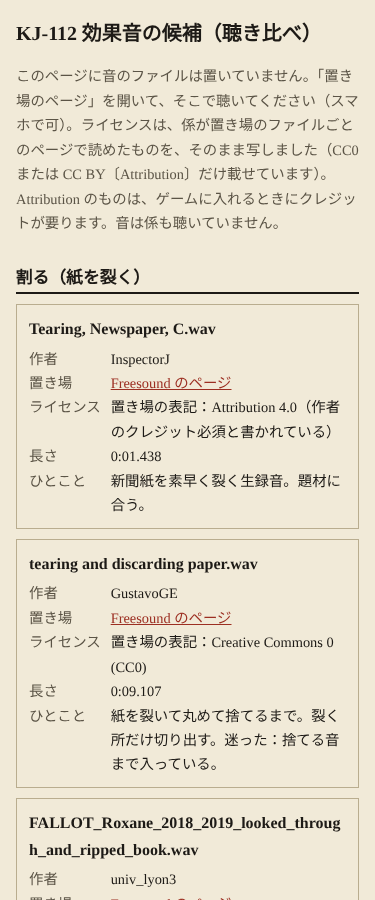
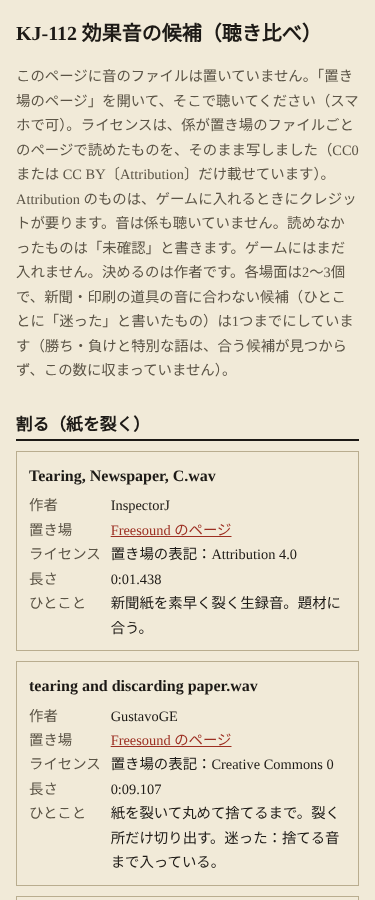
KJ-112 レビュー対応：候補を各場面3つまでに・表記を置き場のまま・前書きを補う
Claude-Session: https://claude.ai/code/session_01CHAiRUP5ebp8C5G6w2LNFK

diff --git a/docs/reports/audio/kj-112/index.html b/docs/reports/audio/kj-112/index.html
@@ -19,24 +19,24 @@ a{color:var(--red)}
 </head>
 <body>
 <h1>KJ-112 効果音の候補（聴き比べ）</h1>
-<p class="note">このページに音のファイルは置いていません。「置き場のページ」を開いて、そこで聴いてください（スマホで可）。ライセンスは、係が置き場のファイルごとのページで読めたものを、そのまま写しました（CC0 または CC BY〔Attribution〕だけ載せています）。Attribution のものは、ゲームに入れるときにクレジットが要ります。音は係も聴いていません。</p>
+<p class="note">このページに音のファイルは置いていません。「置き場のページ」を開いて、そこで聴いてください（スマホで可）。ライセンスは、係が置き場のファイルごとのページで読めたものを、そのまま写しました（CC0 または CC BY〔Attribution〕だけ載せています）。Attribution のものは、ゲームに入れるときにクレジットが要ります。音は係も聴いていません。読めなかったものは「未確認」と書きます。ゲームにはまだ入れません。決めるのは作者です。各場面は2〜3個で、新聞・印刷の道具の音に合わない候補（ひとことに「迷った」と書いたもの）は1つまでにしています（勝ち・負けと特別な語は、合う候補が見つからず、この数に収まっていません）。</p>
 <h2>割る（紙を裂く）</h2>
 <div class="card"><h3>Tearing, Newspaper, C.wav</h3><dl>
 <dt>作者</dt><dd>InspectorJ</dd>
 <dt>置き場</dt><dd><a href="https://freesound.org/s/415765">Freesound のページ</a></dd>
-<dt>ライセンス</dt><dd>置き場の表記：Attribution 4.0（作者のクレジット必須と書かれている）</dd>
+<dt>ライセンス</dt><dd>置き場の表記：Attribution 4.0</dd>
 <dt>長さ</dt><dd>0:01.438</dd>
 <dt>ひとこと</dt><dd>新聞紙を素早く裂く生録音。題材に合う。</dd></dl></div>
 <div class="card"><h3>tearing and discarding paper.wav</h3><dl>
 <dt>作者</dt><dd>GustavoGE</dd>
 <dt>置き場</dt><dd><a href="https://freesound.org/people/GustavoGE/sounds/560081/">Freesound のページ</a></dd>
-<dt>ライセンス</dt><dd>置き場の表記：Creative Commons 0 (CC0)</dd>
+<dt>ライセンス</dt><dd>置き場の表記：Creative Commons 0</dd>
 <dt>長さ</dt><dd>0:09.107</dd>
 <dt>ひとこと</dt><dd>紙を裂いて丸めて捨てるまで。裂く所だけ切り出す。迷った：捨てる音まで入っている。</dd></dl></div>
 <div class="card"><h3>FALLOT_Roxane_2018_2019_looked_through_and_ripped_book.wav</h3><dl>
 <dt>作者</dt><dd>univ_lyon3</dd>
 <dt>置き場</dt><dd><a href="https://freesound.org/s/442959">Freesound のページ</a></dd>
-<dt>ライセンス</dt><dd>置き場の表記：Attribution 4.0 (CC BY 4.0)</dd>
+<dt>ライセンス</dt><dd>置き場の表記：Attribution 4.0</dd>
 <dt>長さ</dt><dd>0:09.834</dd>
 <dt>ひとこと</dt><dd>古い厚手の本をめくり、ページを裂く音。裂く所だけ使う前提。</dd></dl></div>
 <h2>くっつける（Join の放射が弾む瞬間）</h2>
@@ -45,7 +45,7 @@ a{color:var(--red)}
 <dt>置き場</dt><dd><a href="https://freesound.org/people/I.fekry/sounds/470710/">Freesound のページ</a></dd>
 <dt>ライセンス</dt><dd>置き場の表記：Creative Commons 0</dd>
 <dt>長さ</dt><dd>0:01.590</dd>
-<dt>ひとこと</dt><dd>昔ながらのゴム判子（作者の説明）。判子では一番短い。（別の係が開けなかった回もあり、表記は1回読めたもの）</dd></dl></div>
+<dt>ひとこと</dt><dd>昔ながらのゴム判子（作者の説明）。判子では一番短い。</dd></dl></div>
 <div class="card"><h3>es-stamp.wav</h3><dl>
 <dt>作者</dt><dd>eddies2000</dd>
 <dt>置き場</dt><dd><a href="https://freesound.org/people/eddies2000/sounds/448474/">Freesound のページ</a></dd>
@@ -58,29 +58,17 @@ a{color:var(--red)}
 <dt>ライセンス</dt><dd>置き場の表記：CC0 (public domain): Free and royalty-free</dd>
 <dt>長さ</dt><dd>00:02</dd>
 <dt>ひとこと</dt><dd>タイプライターのキー1打。活字をはめる感じに寄せる候補。迷った：判子ではなくキーの音。</dd></dl></div>
-<div class="card"><h3>OFFICE SELF INKING STAMP ON PAPER 01.wav</h3><dl>
-<dt>作者</dt><dd>sengjinn</dd>
-<dt>置き場</dt><dd><a href="https://freesound.org/people/sengjinn/sounds/178650/">Freesound のページ</a></dd>
-<dt>ライセンス</dt><dd>置き場の表記：Attribution 4.0</dd>
-<dt>長さ</dt><dd>0:07.240</dd>
-<dt>ひとこと</dt><dd>自動インク判子を紙に押す録音。複数回入っているので1回分を切り出す。</dd></dl></div>
 <h2>放つ（刷り機・紙を投げる）</h2>
 <div class="card"><h3>Heidelberg printing press #1</h3><dl>
-<dt>作者</dt><dd>Mireille B.（録音）／ Joseph SARDIN（ページの作者表示）</dd>
+<dt>作者</dt><dd>Mireille B.</dd>
 <dt>置き場</dt><dd><a href="https://bigsoundbank.com/heidelberg-printing-press-1-s3404.html">BigSoundBank のページ</a></dd>
 <dt>ライセンス</dt><dd>置き場の表記：CC0 (public domain): Free and royalty-free</dd>
 <dt>長さ</dt><dd>00:25</dd>
 <dt>ひとこと</dt><dd>マルセイユの印刷所で録った印刷機。刷り機の音として最有力。1打を切り出す。</dd></dl></div>
-<div class="card"><h3>Heidelberg printing press #5</h3><dl>
-<dt>作者</dt><dd>Mireille B.</dd>
-<dt>置き場</dt><dd><a href="https://bigsoundbank.com/heidelberg-printing-press-5-s3408.html">BigSoundBank のページ</a></dd>
-<dt>ライセンス</dt><dd>置き場の表記：CC0 (public domain): Free and royalty-free</dd>
-<dt>長さ</dt><dd>00:31</dd>
-<dt>ひとこと</dt><dd>紙なしで回る印刷機。</dd></dl></div>
 <div class="card"><h3>Printing Press Mechanics</h3><dl>
 <dt>作者</dt><dd>exuberate</dd>
 <dt>置き場</dt><dd><a href="https://freesound.org/people/exuberate/sounds/174822/">Freesound のページ</a></dd>
-<dt>ライセンス</dt><dd>置き場の表記：Attribution 3.0（クレジット必須と書かれている）</dd>
+<dt>ライセンス</dt><dd>置き場の表記：Attribution 3.0</dd>
 <dt>長さ</dt><dd>0:25.859</dd>
 <dt>ひとこと</dt><dd>123年前の活版印刷機の機械音。</dd></dl></div>
 <div class="card"><h3>Rolled paper,slapping 2.wav</h3><dl>
@@ -89,12 +77,6 @@ a{color:var(--red)}
 <dt>ライセンス</dt><dd>置き場の表記：Creative Commons 0</dd>
 <dt>長さ</dt><dd>0:00.577</dd>
 <dt>ひとこと</dt><dd>丸めた紙を叩く音。迷った：刷り機ではなく紙を叩きつける用途。</dd></dl></div>
-<div class="card"><h3>Paper Throw Into Air; 3.wav</h3><dl>
-<dt>作者</dt><dd>RossBell</dd>
-<dt>置き場</dt><dd><a href="https://freesound.org/people/RossBell/sounds/389441/">Freesound のページ</a></dd>
-<dt>ライセンス</dt><dd>置き場の表記：Creative Commons 0</dd>
-<dt>長さ</dt><dd>0:02.366</dd>
-<dt>ひとこと</dt><dd>紙を空中に投げる音。迷った：叩きつけではなく投げる。</dd></dl></div>
 <h2>場から取る（紙をめくる・つまむ）</h2>
 <p class="note">「つまむ」音に絞った録音は見つかっていません。</p>
 <div class="card"><h3>Book, Flipping Through Pages, A.wav</h3><dl>
@@ -115,12 +97,6 @@ a{color:var(--red)}
 <dt>ライセンス</dt><dd>置き場の表記：Creative Commons 0</dd>
 <dt>長さ</dt><dd>0:06.403</dd>
 <dt>ひとこと</dt><dd>本のページをめくる音。切り出し前提。</dd></dl></div>
-<div class="card"><h3>Page Turning Sfx Sound Effect</h3><dl>
-<dt>作者</dt><dd>Nicole Marie T</dd>
-<dt>置き場</dt><dd><a href="https://opengameart.org/content/page-turning-sfx-sound-effect">OpenGameArt のページ</a></dd>
-<dt>ライセンス</dt><dd>置き場の表記：CC-BY 4.0</dd>
-<dt>長さ</dt><dd>ページに無し（WAV 199.4 KB）</dd>
-<dt>ひとこと</dt><dd>予備。</dd></dl></div>
 <h2>否の判子（はじかれたとき）</h2>
 <div class="card"><h3>Stamp.wav</h3><dl>
 <dt>作者</dt><dd>abstraktgeneriert</dd>
@@ -160,7 +136,7 @@ a{color:var(--red)}
 <dt>長さ</dt><dd>0:03.020</dd>
 <dt>ひとこと</dt><dd>自転車のベルを1回。迷った：新聞・印刷の道具ではない。</dd></dl></div>
 <h2>特別な語（大きめの演出）</h2>
-<p class="note">拍子木は CC0 が1つしか見つかっていません。</p>
+<p class="note">拍子木（claves）は CC0 のものが1つ見つかりましたが、題名と作者がページで読めなかったので載せていません。下の「載せなかったもの」を見てください。</p>
 <div class="card"><h3>TAIKO DRUM 001.wav</h3><dl>
 <dt>作者</dt><dd>sandyrb</dd>
 <dt>置き場</dt><dd><a href="https://www.freesound.org/people/sandyrb/sounds/82712/">Freesound のページ</a></dd>
@@ -173,12 +149,6 @@ a{color:var(--red)}
 <dt>ライセンス</dt><dd>置き場の表記：Attribution 4.0</dd>
 <dt>長さ</dt><dd>0:06.988</dd>
 <dt>ひとこと</dt><dd>太鼓を録ってリバーブ等をかけた低い衝撃音。小さなスピーカーでは聞こえにくいと説明にある。</dd></dl></div>
-<div class="card"><h3>（題名がページに無い）wooden claves</h3><dl>
-<dt>作者</dt><dd>ページに作者名なし（URL の人名は SamuelGremaud）</dd>
-<dt>置き場</dt><dd><a href="https://freesound.org/people/SamuelGremaud/sounds/517609">Freesound のページ</a></dd>
-<dt>ライセンス</dt><dd>置き場の表記：Creative Commons 0 License</dd>
-<dt>長さ</dt><dd>0:06.794</dd>
-<dt>ひとこと</dt><dd>拍子木風の claves。ひと打ちか連打かは説明に無い。</dd></dl></div>
 <div class="card"><h3>High pitched tom, #2</h3><dl>
 <dt>作者</dt><dd>Joseph SARDIN</dd>
 <dt>置き場</dt><dd><a href="https://bigsoundbank.com/tom-aigu-2-s2330.html">BigSoundBank のページ</a></dd>
@@ -226,6 +196,6 @@ a{color:var(--red)}
 <dt>長さ</dt><dd>00:48</dd>
 <dt>ひとこと</dt><dd>電子式に機械の仕掛け。3段階で鳴る。</dd></dl></div>
 <h2>載せなかったもの</h2>
-<p class="note">NC のもの（例：Freesound「00883 bank stamp 2.wav」「Tinkling of small bell.wav」）、CC-BY-SA のもの（OpenGameArt「Dings」）、独自の許諾文のもの（Freesound「Printing Press 3.wav」）、置き場にライセンスの表記が無かったもの、ページを読めなかったもの（OpenGameArt の一部は robots で取得不可。Freesound の数件は取得失敗）。ゲームに入れる段で、改めてファイルごとに確かめます。</p>
+<p class="note">NC のもの（例：Freesound「00883 bank stamp 2.wav」「Tinkling of small bell.wav」）、CC-BY-SA のもの（OpenGameArt「Dings」）、独自の許諾文のもの（Freesound「Printing Press 3.wav」）、置き場にライセンスの表記が無かったもの、題名と作者がページで読めなかったもの（Freesound「wooden claves」〔SamuelGremaud の URL・CC0 表記〕）、ページを読めなかったもの（OpenGameArt の一部は robots で取得不可。Freesound の数件は取得失敗）。ゲームに入れる段で、改めてファイルごとに確かめます。</p>
 </body>
 </html>
